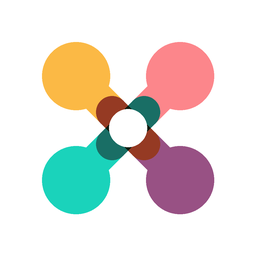
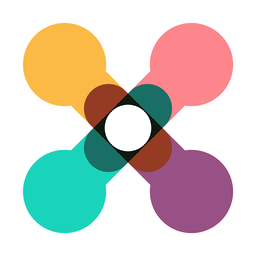
feat: muestra responsables y ajusta icono del centro de trabajo

diff --git a/static/tests/work_center.test.js b/static/tests/work_center.test.js
@@ -30,6 +30,66 @@ describe("mc_rov work center", () => {
     // El montaje inicia servicios de Mail aunque el centro no contenga chatter.
     defineModels(mailModels);
 
+    test("responsable muestra nombre y distingue vacio de acceso restringido", async () => {
+        const Center = requireCenter();
+        if (!Center) return;
+        mockService("orm", {
+            call(_model, method) {
+                return Promise.resolve(method === "get_overview" ? overview() : {
+                    rows: [
+                        { ...row(41), responsible: "Usuario asignado", responsible_state: "assigned" },
+                        { ...row(42), responsible: false, responsible_state: "unassigned" },
+                        { ...row(43), responsible: false, responsible_state: "restricted" },
+                    ], total: 3, next_offset: false, responsible_label: "Responsable",
+                });
+            },
+        });
+        await mountCenter(Center);
+        expect("th.mc_work_center_responsible_heading").toHaveText("Responsable");
+        expect("tbody tr:nth-child(1) .mc_work_center_responsible").toHaveText("Usuario asignado");
+        expect("tbody tr:nth-child(2) .mc_work_center_responsible").toHaveText("Sin responsable");
+        expect("tbody tr:nth-child(3) .mc_work_center_responsible").toHaveText("Sin acceso al nombre");
+        expect(".mc_work_center_responsible a").toHaveCount(0);
+    });
+
+    test("revision en borrador dice tecnico responsable sin afirmar que ya se realizo", async () => {
+        const Center = requireCenter();
+        if (!Center) return;
+        mockService("orm", {
+            call(_model, method) {
+                return Promise.resolve(method === "get_overview" ? [
+                    { topic: "repair", kind: "reviews", available: true, count: 1, can_create: true },
+                ] : { ...result(41), responsible_label: "Técnico responsable",
+                    rows: [{ ...row(41), responsible: "Técnico de Prueba", responsible_state: "assigned" }] });
+            },
+        });
+        await mountCenter(Center, { state: { workCenter: { topic: "repair", kind: "reviews" } } });
+        expect("th.mc_work_center_responsible_heading").toHaveText("Técnico responsable");
+        expect("th.mc_work_center_responsible_heading").toHaveAttribute("title", "Persona registrada como responsable de realizar la prueba.");
+        expect(".mc_work_center_responsible").toHaveText("Técnico de Prueba");
+    });
+
+    test("equipo no muestra responsable y al regresar se recupera la columna correcta", async () => {
+        const Center = requireCenter();
+        if (!Center) return;
+        mockService("orm", {
+            call(_model, method, args) {
+                if (method === "get_overview") return Promise.resolve(overview());
+                const assigned = args[1] === "orders";
+                return Promise.resolve({ ...result(41), responsible_label: assigned ? "Responsable" : false,
+                    rows: [{ ...row(41), responsible: assigned ? "Usuario asignado" : false }] });
+            },
+        });
+        await mountCenter(Center);
+        expect("th.mc_work_center_responsible_heading").toHaveText("Responsable");
+        await click('[data-topic="equipment"]');
+        await animationFrame();
+        expect("th.mc_work_center_responsible_heading").toHaveCount(0);
+        await click('[data-topic="repair"]');
+        await animationFrame();
+        expect("th.mc_work_center_responsible_heading").toHaveText("Responsable");
+    });
+
     test("seleccionar área consulta registros sin crear ni navegar", async () => {
         const Center = requireCenter();
         if (!Center) return;

diff --git a/static/src/work_center/work_center.js b/static/src/work_center/work_center.js
@@ -40,7 +40,7 @@ export class WorkCenter extends Component {
         this.state = useState({
             topic: saved.topic || "repair", kind: saved.kind || "orders",
             filters: saved.filters || {}, kinds: saved.kinds || {},
-            overview: [], rows: [], total: 0, nextOffset: false,
+            overview: [], rows: [], total: 0, nextOffset: false, responsibleLabel: false,
             loading: true, error: "", overviewError: "", acting: false,
             modelQuery: "", modelOptions: [], modelError: "",
         });
@@ -114,6 +114,7 @@ export class WorkCenter extends Component {
         clearTimeout(this.searchTimer);
         const generation = ++this.generation;
         this.state.rows = [];
+        this.state.responsibleLabel = false;
         this.state.error = "";
         this.state.loading = true;
         if (!this.capability?.available) {
@@ -127,6 +128,7 @@ export class WorkCenter extends Component {
                 [this.state.topic, this.state.kind], { query, model_id, state_filter, offset });
             if (generation !== this.generation) return;
             this.state.rows = result.rows;
+            this.state.responsibleLabel = result.responsible_label || false;
             this.state.total = result.total;
             this.state.nextOffset = result.next_offset;
         } catch (_error) {

diff --git a/tests/test_work_center.py b/tests/test_work_center.py
@@ -7,6 +7,8 @@ from odoo.tools.safe_eval import safe_eval
 from .test_mc_rov_revision import RevisionCommon
 
 
+# Una clase mantiene juntos los contratos del mismo servicio.
+# pylint: disable-next=too-many-public-methods
 class TestWorkCenter(RevisionCommon):
     """El centro consulta trabajo accesible y abre destinos sin cambiar evidencias."""
 
@@ -34,6 +36,82 @@ class TestWorkCenter(RevisionCommon):
 
     def _row_ids(self, result):
         return {row["id"] for row in result["rows"]}
+
+    def test_responsables_de_pruebas_y_fen_son_los_empleados_guardados(self):
+        center = self._center()
+        cases = []
+        for topic, kind, tipo in (
+            ("repair", "reviews", "reparacion"),
+            ("acceptance", "performance", "rendimiento"),
+            ("acceptance", "field", "terreno"),
+        ):
+            cases.append((topic, kind, self._revision(tipo=tipo), "Técnico responsable"))
+        cases.append(
+            ("acceptance", "fen", self._ficha(responsable_id=self.empleado.id), "Responsable")
+        )
+        for topic, kind, record, label in cases:
+            with self.subTest(kind=kind):
+                before = record.read(["responsable_id", "write_date"])
+                result = center.get_records(topic, kind, state_filter="all")
+                self.assertEqual(result.get("responsible_label"), label)
+                row = next(row for row in result["rows"] if row["id"] == record.id)
+                self.assertEqual(row.get("responsible"), self.empleado.name)
+                self.assertEqual(record.read(["responsable_id", "write_date"]), before)
+
+    def test_responsable_de_orden_es_usuario_asignado_no_autor(self):
+        user = new_test_user(self.env, login="center_order_owner", groups="stock.group_stock_user")
+        order = self.env["repair.order"].create(
+            {"product_id": self.product.id, "lot_id": self.lot.id, "user_id": user.id}
+        )
+        result = self._center().get_records("repair", "orders", state_filter="all")
+        self.assertEqual(result.get("responsible_label"), "Responsable")
+        row = next(row for row in result["rows"] if row["id"] == order.id)
+        self.assertEqual(row.get("responsible"), user.name)
+        self.assertNotEqual(order.create_uid, user)
+
+    def test_sin_responsable_no_infiere_autor_y_equipo_no_tiene_columna(self):
+        revision = self._revision(responsable_id=False)
+        result = self._center().get_records("repair", "reviews", state_filter="all")
+        self.assertEqual(result.get("responsible_label"), "Técnico responsable")
+        row = next(row for row in result["rows"] if row["id"] == revision.id)
+        self.assertFalse(row.get("responsible"))
+        self.assertEqual(row.get("responsible_state"), "unassigned")
+        equipment = self._center().get_records("equipment", "equipment")
+        self.assertFalse(equipment.get("responsible_label"))
+
+    def test_nombre_publico_del_tecnico_no_requiere_permisos_privados_de_rrhh(self):
+        user = new_test_user(
+            self.env, login="center_technician_reader", groups="stock.group_stock_user"
+        )
+        revision = self._revision()
+        self.assertFalse(self.env["hr.employee"].with_user(user).has_access("read"))
+        result = (
+            self._center().with_user(user).get_records("repair", "reviews", state_filter="all")
+        )
+        self.assertEqual(result.get("responsible_label"), "Técnico responsable")
+        row = next(row for row in result["rows"] if row["id"] == revision.id)
+        self.assertEqual(row.get("responsible"), self.empleado.name)
+
+    def test_tecnico_restringido_no_revela_nombre_ni_oculta_revision(self):
+        user = new_test_user(
+            self.env, login="center_technician_hidden", groups="stock.group_stock_user"
+        )
+        revision = self._revision()
+        for model in ("hr.employee", "hr.employee.public"):
+            self.env["ir.rule"].create(
+                {
+                    "name": "Técnico no accesible en centro",
+                    "model_id": self.env["ir.model"]._get_id(model),
+                    "domain_force": str([("id", "!=", self.empleado.id)]),
+                }
+            )
+        result = (
+            self._center().with_user(user).get_records("repair", "reviews", state_filter="all")
+        )
+        self.assertEqual(result.get("responsible_label"), "Técnico responsable")
+        row = next(row for row in result["rows"] if row["id"] == revision.id)
+        self.assertFalse(row.get("responsible"))
+        self.assertEqual(row.get("responsible_state"), "restricted")
 
     def test_equipo_filtra_rov_modelo_y_serie_con_lista_del_mismo_ambito(self):
         center = self._center()

diff --git a/models/mc_rov_work_center.py b/models/mc_rov_work_center.py
@@ -96,6 +96,17 @@ DEFINITIONS = {
 REVISION_TYPES = {"reviews": "reparacion", "performance": "rendimiento", "field": "terreno"}
 EQUIPMENT_STATES = ("Operativo", "En mantención", "En reparación")
 
+# Reuse operational ownership only: product.responsible_id concerns logistics, not design.
+RESPONSIBLE_FIELDS = {
+    "repair.order": "user_id",
+    "mrp.production": "user_id",
+    "quality.alert": "user_id",
+    "quality.check": "user_id",
+    "mrp.eco": "user_id",
+    "mc.rov.revision": "responsable_id",
+    "mc.rov.ficha.equipo.nuevo": "responsable_id",
+}
+
 
 class WorkCenter(models.AbstractModel):
     """Consulta trabajo ROV y abre sus formularios, sin crear estados de proceso."""
@@ -285,7 +296,28 @@ class WorkCenter(models.AbstractModel):
             "rows": self._record_rows(records, definition[2], definition[3]),
             "total": total,
             "next_offset": offset + 20 if offset + 20 < total else False,
+            "responsible_label": (
+                _("Técnico responsable")
+                if model._name == "mc.rov.revision"
+                else _("Responsable") if model._name in RESPONSIBLE_FIELDS else False
+            ),
         }
+
+    def _responsible_names(self, records):
+        """Lee solo nombres permitidos; empleados públicos evitan exigir acceso privado a RRHH."""
+        field_name = RESPONSIBLE_FIELDS.get(records._name)
+        if not field_name:
+            return False, {}
+        ids = records.mapped(field_name).ids
+        related_model = records._fields[field_name].comodel_name
+        if related_model == "hr.employee":
+            related_model = "hr.employee.public"
+        related = self.env[related_model].with_context(active_test=False)
+        if not ids or not related.has_access("read"):
+            return field_name, {}
+        # search_read aplica reglas en lote; no se expone la identidad del registro restringido.
+        names = related.search_read([("id", "in", ids)], ["name"])
+        return field_name, {row["id"]: row["name"] for row in names}
 
     def _record_rows(self, records, model_path, state_field):
         """Presenta referencias y estados nativos sin inferir tareas personales."""
@@ -294,6 +326,7 @@ class WorkCenter(models.AbstractModel):
         if state_field and model._fields[state_field].type == "selection":
             labels = dict(model.fields_get([state_field])[state_field]["selection"])
         rows = []
+        responsible_field, responsible_names = self._responsible_names(records)
         for record in records:
             related = record
             if model_path:
@@ -302,12 +335,20 @@ class WorkCenter(models.AbstractModel):
             state = record[state_field] if state_field else False
             if state and model._fields[state_field].type == "many2one":
                 state = state.display_name
+            responsible_id = record[responsible_field].id if responsible_field else False
+            responsible = responsible_names.get(responsible_id, False)
             rows.append(
                 {
                     "id": record.id,
                     "reference": record.display_name,
                     "context": related.display_name if model_path and related else "",
                     "state": labels.get(state, state) or "",
+                    "responsible": responsible,
+                    "responsible_state": (
+                        "assigned"
+                        if responsible
+                        else "restricted" if responsible_id else "unassigned"
+                    ),
                 }
             )
         return rows

diff --git a/__manifest__.py b/__manifest__.py
@@ -1,6 +1,6 @@
 {
     "name": "Marine Connection - ROV",
-    "version": "19.0.24.3.0",
+    "version": "19.0.24.4.0",
     "category": "Inventory",
     "summary": "Gestión de equipos ROV y órdenes de reparación",
     "author": "Marine Connection",

diff --git a/docs/pendientes.md b/docs/pendientes.md
@@ -3,16 +3,33 @@
 > Fuente de continuidad. Actualizar al cerrar cada sesión y distinguir código local,
 > pruebas, merge y despliegue. Las propuestas no aprobadas no son tareas de implementación.
 
-## Estado vigente — 2026-10-08
+## Estado vigente — 2026-10-09
 
-- **Centro de trabajo aprobado para cierre y despliegue.** STAGING 19.0.24.3.0
+- Ajuste aprobado en curso, rama `feature/centro-responsables-icono`: icono ampliado
+  y brazos más anchos preparados localmente; render a escala de referencia verificado
+  en 126 × 126 px, sin desplazamiento ni rotación. Cinco contratos nuevos de responsables
+  escritos antes del cambio de backend. Auditoría y RED verificados en STAGING:
+  16 contratos anteriores pasan; cinco pruebas nuevas producen ocho aserciones
+  fallidas esperadas (subcasos REV/RND/TRN/FEN), sin errores. Backend e icono instalados
+  en STAGING 19.0.24.4.0: suite 383/383 aprobada, servicio activo y hashes QWeb
+  conservados. RED frontend observado: 10 pruebas anteriores pasan y 3 nuevas fallan por
+  columnas ausentes. Columnas instaladas en STAGING y HOOT GREEN 13/13 comprobado en navegador.
+  QA visual: REV, órdenes, fabricación y alertas muestran sus responsables;
+  Equipos no muestra columna. Black/pylint aprobados. Pendiente PR/checks/merge y
+  despliegue de este ajuste a producción (que sigue en 19.0.24.3.0).
+  Evidencia: `../.tmp/center-work-qa/responsibles-green-tests.log`.
+
+- **Centro de trabajo desplegado en producción.** STAGING 19.0.24.3.0
   pasó la suite final 378/378; servicio activo. Nombre e icono morado verificados
   en el lanzador de Odoo, sin logo MC dentro de la pantalla. Black y pylint-odoo
-  pasan; PDFs conservados. Pendiente PR/checks/merge y despliegue a producción.
-- Producción: `mc_rov 19.0.24.2.0`, código funcional `54c177d` (merge del
-  [PR #98](https://github.com/amonpxh/mc_rov/pull/98)). Upgrade y reinicio completos
-  verificados; servicio activo desde 20:28:17 UTC, PID 1041544. Vista instalada y
-  acciones comprobadas con rollback; ambos reportes QWeb conservan sus hashes.
+  pasan; PDFs conservados. [PR #100](https://github.com/amonpxh/mc_rov/pull/100)
+  integrado en `main` mediante `b9410ba`, con checks del PR y del merge aprobados
+  (CI del merge: 375 pruebas). Instalación de producción verificada con lectura y rollback.
+- Producción: `mc_rov 19.0.24.3.0`, código funcional `b9410ba` (PR #100).
+  Upgrade y reinicio completos verificados; servicio activo desde
+  2026-10-08 20:39:38 UTC, PID 1064676. Menú, acción e icono verificados;
+  conteos y referencias de las áreas comprobados sin crear datos.
+  Ambos reportes QWeb conservan sus hashes. Falta solo comprobación visual en producción.
 - Navegación FEN terminada y aprobada manualmente: historial en **Fichas**, sin título
   interior adicional. **Pruebas** conserva revisiones y creación RND/TRN.
   **Imprimir ficha** aparece en cabecera y Fichas, no en Pruebas; ambos accesos
@@ -31,8 +48,8 @@
   allí. La sonda se revirtió, sin emitir documentos ni consumir correlativos.
   Ambos reportes QWeb conservaron sus hashes antes/después del despliegue.
 - Respaldo de producción:
-  `/var/backups/mc-rov-prod-quality-navigation-KvN70P/odoo_prod.dump`.
-  Evidencia del último despliegue: `../.tmp/prod-quality-navigation`; evidencia FEN
+  `/var/backups/mc-rov-prod-center-work-xdBJKb/odoo_prod.dump`.
+  Evidencia del último despliegue: `../.tmp/prod-center-work`; evidencia FEN
   anterior: `../.tmp/prod-fen-navigation` y `../.tmp/fen-navigation-qa`.
   No publicar archivos `.tmp`. No queda despliegue pendiente para esta entrega.
 - Mapa de relaciones aprobado: recorridos abiertos y ramas por escenario, no una
@@ -47,6 +64,29 @@
 
 ## Próximos pasos acordados, en orden
 
+### Ajustes posteriores al despliegue del Centro
+
+- Icono aprobado por el usuario: sin desplazamiento ni rotación, brazos más anchos
+  (32 → 40), círculo blanco limpio; rectángulo cromático recalculado a 126 × 126 px
+  en la maqueta, igual que Contactos/Ventas. Maqueta:
+  `../.tmp/center-work-qa/icon-measured/wide-comparison.png`. PNG/SVG actualizados
+  localmente y render del PNG comprobado a 126 × 126 px; instalado en STAGING.
+- Responsables en el Centro: propuesta y nombres de columnas aprobados por el usuario;
+  backend aprobado en STAGING (383/383), interfaz instalada y HOOT 13/13 aprobado. REV/RND/TRN: «Técnico responsable», con ayuda
+  «Persona registrada como responsable de realizar la prueba». Evitar «Realizado por»
+  en borradores, porque aún podrían no haberse ejecutado. Órdenes: «Responsable».
+  Reutilizar responsables existentes; separar responsable del registro de asignado
+  de una actividad nativa. REV/RND/TRN y FEN usan empleados; las órdenes nativas
+  usan usuarios. No inferir asignación desde autor, propietario o último editor.
+  Campos de Fabricación/Calidad/ECO auditados: usuario nativo responsable.
+  Empleados se consultan mediante `hr.employee.public`, respetando permisos.
+  Sin persona registrada: «Sin responsable»; nombre restringido: «Sin acceso al nombre».
+  Modelos/BoM/equipos sin columna; responsable logístico de producto excluido. No crear obligaciones
+  ni asignar automáticamente tareas a partir de los conteos del Centro.
+- Actividades programadas: fuera del alcance actual. El usuario quiere conversar
+  su incorporación después; no implementar ahora. Si se incorporan, distinguir
+  «Asignado a» del responsable del registro o del técnico de una revisión.
+
 ### Entrega del Centro de trabajo
 
 Piloto aprobado por el usuario. Nombre «Centro de trabajo», icono morado de
@@ -59,7 +99,17 @@ Los reportes FEN/REV conservan sus hashes y las sondas se revirtieron.
 Evidencia: `../.tmp/center-work-qa/final-release-tests.log`,
 `final-release-response.txt` y `final-icon-installed.png`.
 Respaldo: `/var/tmp/mc-rov-center-work-final-release-Ic3VQH`.
-Black y pylint-odoo locales aprobados. Pendiente PR/checks/merge y producción.
+Black y pylint-odoo locales aprobados. PR #100 integrado (`b9410ba`), checks del PR
+y del merge aprobados. Producción 19.0.24.3.0 instalada y reiniciada; sonda de lectura
+aprobada, sin cambios de conteos y con rollback. Menú/acción 1018 e icono verificados.
+Evidencia: `../.tmp/prod-center-work/verification.json` y `deployment.txt`.
+Falta comprobación visual en producción; no repetir despliegue para hacerla.
+
+El runner PowerShell tenía un prefijo BOM convertido en texto; produjo un error
+en la primera línea pero continuó y completó el despliegue. Generador y script
+corregidos; primera línea y sintaxis comprobadas localmente sin ejecutar SSH.
+Los avisos de deprecación de `odoo.osv` y del compute de ficha técnica no bloquearon
+el upgrade. Su limpieza técnica queda para una pasada separada, sin alterar esta entrega.
 
 El runner final excedía el límite Linux por variable de entorno; ahora transporta
 el paquete mediante archivo temporal. Reejecución verificada. Issue QA preparado

diff --git a/docs/designs/centro-trabajo-rov.md b/docs/designs/centro-trabajo-rov.md
@@ -149,3 +149,19 @@ Integración y despliegue autorizados por el usuario. La última pasada local de
 formato/lint reorganizó helpers sin alterar los contratos; suite de cierre del
 árbol final aprobada 378/378 y servicio activo. Icono/nombre verificados en el
 lanzador nativo. Estado de PR y producción en `../pendientes.md`.
+
+## Responsables e icono — ajuste aprobado el 2026-10-09
+
+Las listas muestran la persona ya registrada, sin asignar tareas ni inferirla del
+autor o último editor. REV/RND/TRN usan «Técnico responsable» y la ayuda «Persona
+registrada como responsable de realizar la prueba.»; FEN, reparación, fabricación,
+controles/alertas de Calidad y cambios de ingeniería usan «Responsable».
+Los campos nativos fueron auditados en STAGING. Los nombres de empleados se leen
+mediante `hr.employee.public`, conservando permisos y reglas de acceso.
+Sin persona: «Sin responsable»; nombre no accesible: «Sin acceso al nombre».
+Modelos, BoM y equipos no incorporan columna; el responsable logístico del producto
+no representa al responsable del diseño. Actividades programadas quedan para después.
+
+El icono conserva posiciones, ángulos y círculo blanco; amplía los brazos de 32 a
+40 y ajusta la escala para ocupar 126 × 126 px en el render de referencia, igual
+que Contactos y Ventas. No incorpora desplazamiento ni rotación de figuras.

diff --git a/docs/superpowers/plans/2026-10-08-centro-trabajo-rov.md b/docs/superpowers/plans/2026-10-08-centro-trabajo-rov.md
@@ -5,7 +5,9 @@
 > Suite integrada 378/378, contratos finales 16/16 y HOOT 10/10 aprobados.
 > Piloto aprobado por el usuario; suite final del árbol de entrega 378/378 verificada.
 > Revisión final realizada y sus tres hallazgos corregidos mediante RED→GREEN.
-> Producción sin cambios del Centro; integración y despliegue autorizados, pendientes.
+> PR #100 integrado en main (`b9410ba`); checks del PR y del merge aprobados.
+> Producción 19.0.24.3.0 instalada el 2026-10-08; servicio activo, menú/icono y
+> accesos de lectura verificados, PDFs conservados. Falta comprobación visual allí.
 
 **Objetivo:** comenzar y retomar trabajo ROV desde la composición C aprobada.
 
